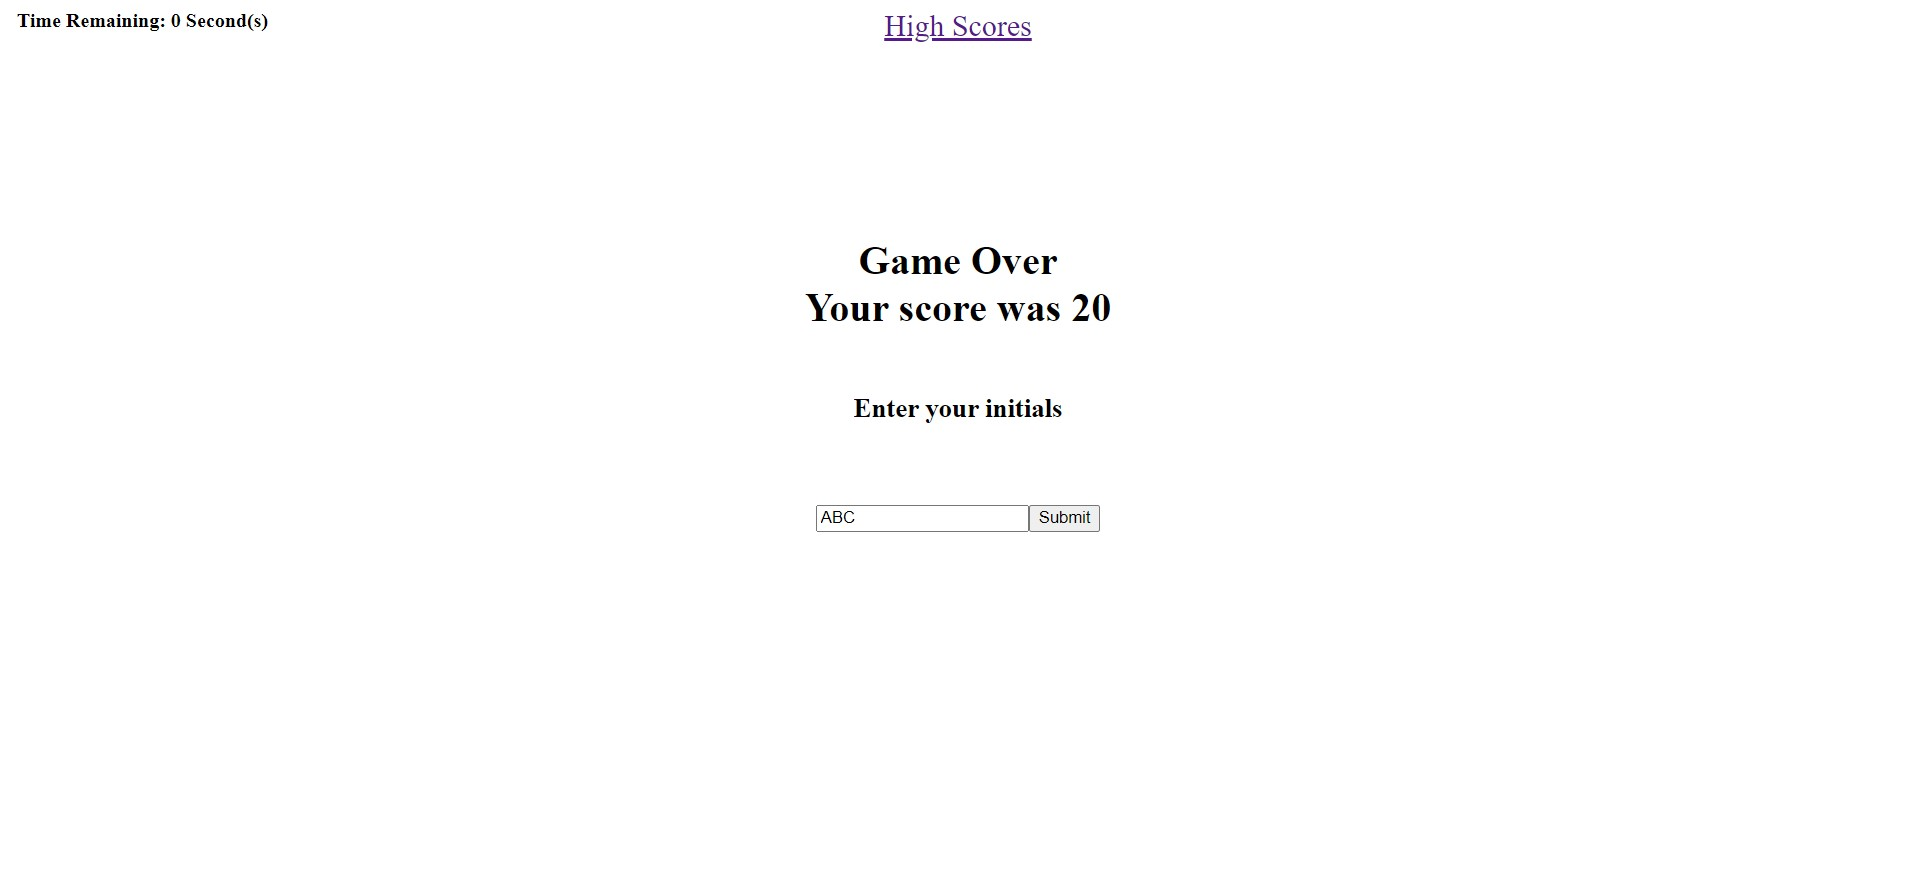
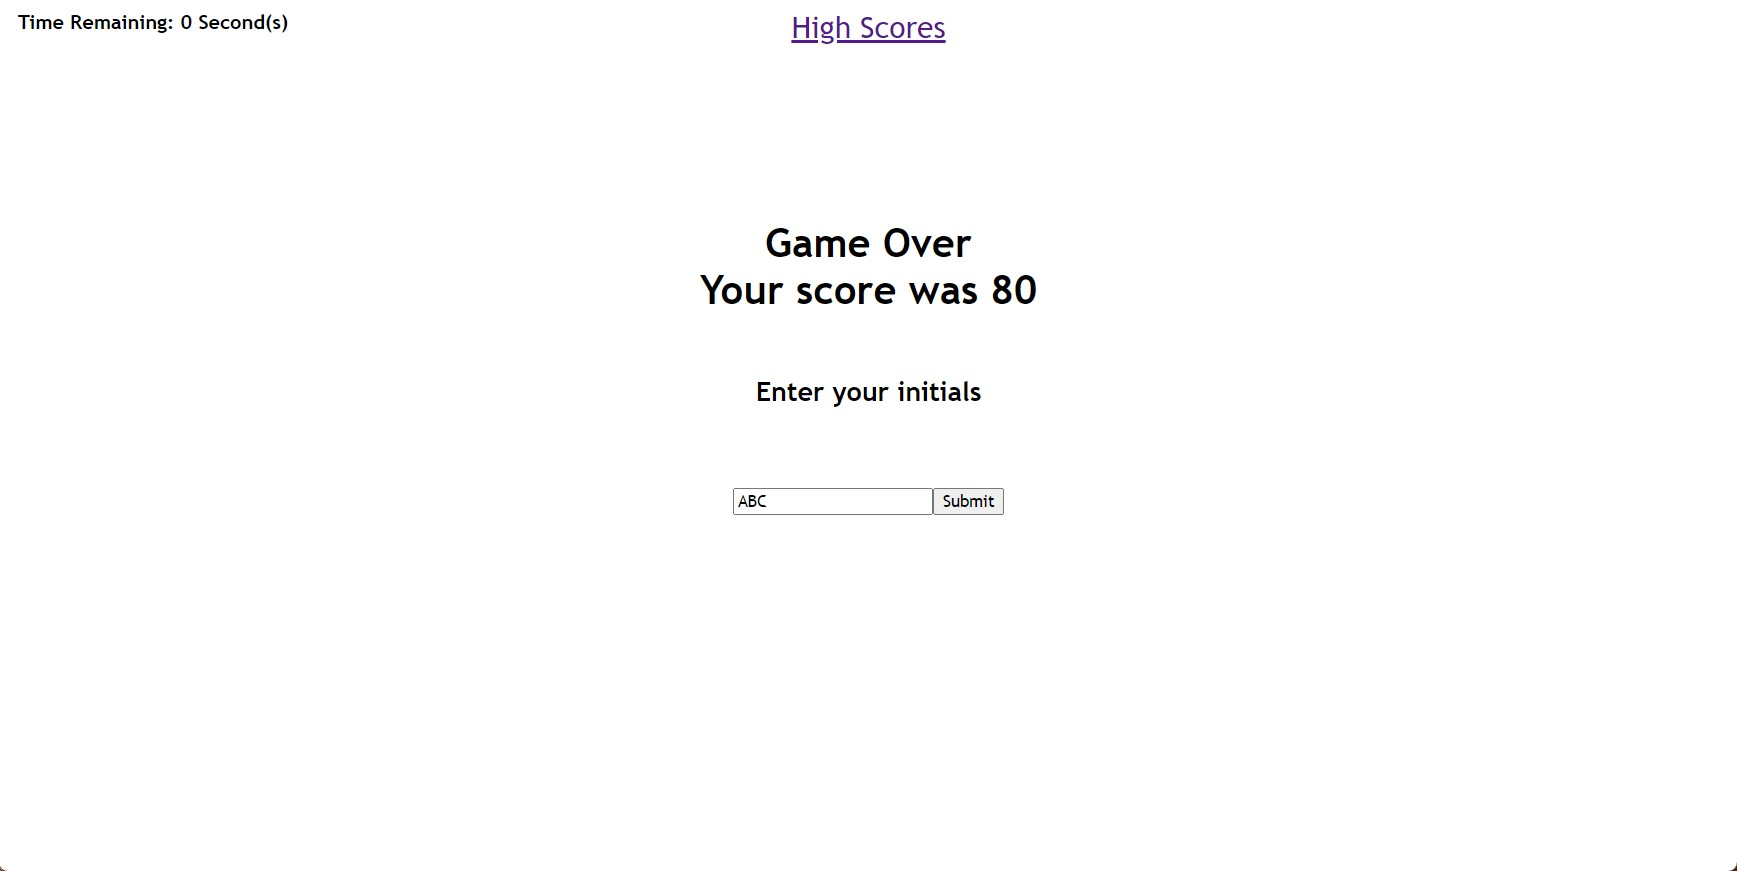
Added some css styling and text that tells player if they were correct or not. Updated README images to reflect changes

diff --git a/assets/script.js b/assets/script.js
@@ -65,7 +65,7 @@ var choiceB = document.createElement("button")
 var choiceC = document.createElement("button")
 var choiceD = document.createElement("button")
 var timer = document.querySelector(".timer")
-
+var feedback = document.createElement("div")
 
 
 
@@ -115,6 +115,9 @@ startButton.addEventListener("click", function(event){
             timeLeft = timeLeft + 5;
             console.log("the question index is " + questionIndex)
             console.log("number correct is " + numCorrect)
+            quizChange.appendChild(feedback)
+            feedback.setAttribute("class", "feedback")
+            feedback.textContent = "Correct! +5s"
             nextQuestion()
         }  else if (event.target.innerHTML != questionArray[questionIndex].answer && questionIndex < 4){
             ++numIncorrect;
@@ -122,6 +125,9 @@ startButton.addEventListener("click", function(event){
             timeLeft = timeLeft - 10; 
             console.log("I Clicked a wrong number and the index is " + questionIndex)
             console.log("the number incorrect is " + numIncorrect)
+            quizChange.appendChild(feedback)
+            feedback.setAttribute("class", "feedback")
+            feedback.textContent = "Incorrect -10s"
             nextQuestion()
         } else if (event.target.innerHTML == questionArray[questionIndex].answer && questionIndex == 4) {
            numCorrect = numCorrect + 1;
@@ -146,6 +152,7 @@ function nextQuestion() {
     choiceB.textContent = questionArray[questionIndex].choiceTwo;
     choiceC.textContent = questionArray[questionIndex].choiceThree;
     choiceD.textContent = questionArray[questionIndex].choiceFour;
+    // feedback.textContent = ""
 }
 
 

diff --git a/assets/style.css b/assets/style.css
@@ -1,5 +1,5 @@
  * {
-     
+     font-family:'Trebuchet MS', 'Lucida Sans Unicode', 'Lucida Grande', 'Lucida Sans', Arial, sans-serif
 }
 
 a {
@@ -62,10 +62,17 @@ h1 {
     width:33%;
     margin-left: auto;
     margin-right: auto;
+    margin-top: 20px;
+    height: 30px;
 }
 
 .answer {
     padding: 10px;
+}
+
+.answer:hover{
+    background-color: rgb(0, 110, 255);
+    filter: brightness(150%);
 }
 
 .choiceA {
@@ -103,4 +110,13 @@ li {
     bottom: 0;
     margin: 30px;
     text-align: center;
+}
+
+.feedback {
+    border-top: grey solid 2px;
+    margin-top: 50px;
+    margin-left: 20%;
+    margin-right: 20%;
+    font-weight: bold;
+
 }
